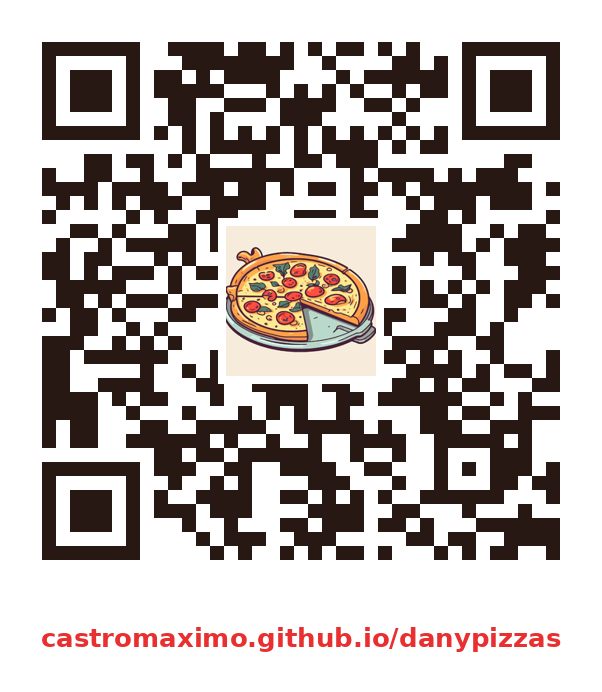
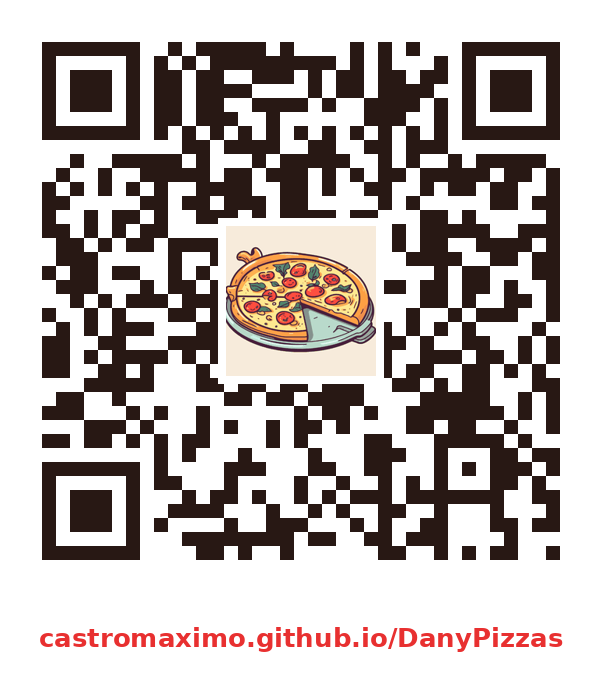
Corregir URL del sitio (DanyPizzas) y regenerar QR
Claude-Session: https://claude.ai/code/session_01DGuVkGqipoRnmsFXRqrGAM

Changed region(s): [[0.0598, 0.0607, 0.9269, 0.8194], [0.0598, 0.9104, 0.9269, 0.9408]]

diff --git a/docs/PUBLICAR.md b/docs/PUBLICAR.md
@@ -1,7 +1,7 @@
 # Publicar Dany Pizzas (paso a paso)
 
 Dirección pública del sitio (dominio gratuito de GitHub Pages):
-**https://castromaximo.github.io/danypizzas/**
+**https://castromaximo.github.io/DanyPizzas/**
 QR listo para imprimir: `docs/qr-sitio.png`
 
 Hay 3 partes. La 1 y la 2 dejan el sitio en internet (≈10 min). La 3 activa la planilla de pedidos (≈10 min, opcional pero recomendada para la exposición).
@@ -10,12 +10,12 @@ Hay 3 partes. La 1 y la 2 dejan el sitio en internet (≈10 min). La 3 activa la
 
 ## Parte 1 — Subir el código a GitHub
 
-El repositorio `CastroMaximo/danypizzas` ya existe y está vacío. El ZIP **ya trae el commit hecho**, solo falta empujarlo.
+El repositorio `CastroMaximo/DanyPizzas` ya existe y está vacío. El ZIP **ya trae el commit hecho**, solo falta empujarlo.
 
 ```bash
 cd ~/Descargas                       # o donde descargaste el ZIP
-unzip DanyPizzas_v1_2_repo.zip          # crea la carpeta danypizzas/ (con el historial de git)
-cd danypizzas
+unzip DanyPizzas_v1_2_repo.zip          # crea la carpeta DanyPizzas/ (con el historial de git)
+cd DanyPizzas
 git status                           # debe decir: "On branch main ... nothing to commit"
 git push -u origin main
 ```
@@ -30,10 +30,10 @@ Cuando pida credenciales:
 
 ## Parte 2 — Activar GitHub Pages (una sola vez)
 
-1. Entrá a https://github.com/CastroMaximo/danypizzas → **Settings** → **Pages**.
+1. Entrá a https://github.com/CastroMaximo/DanyPizzas → **Settings** → **Pages**.
 2. En *Build and deployment* → *Source*: elegí **GitHub Actions**.
 3. Pestaña **Actions** → workflow *Pruebas y publicación* → si no corrió solo, **Run workflow**.
-4. Cuando termina en verde (≈1 min), abrí https://castromaximo.github.io/danypizzas/
+4. Cuando termina en verde (≈1 min), abrí https://castromaximo.github.io/DanyPizzas/
 
 Requisito: el repositorio tiene que ser **público** (Pages gratis no publica repos privados). *Settings → General → Danger Zone → Change visibility* si hiciera falta. No hay datos sensibles en el código: el alias y el WhatsApp ya son públicos para los clientes.
 
@@ -61,7 +61,7 @@ Verificación: abrí el sitio, hacé un pedido de prueba → tiene que salir un 
 
 ## Checklist de “producto terminado”
 
-- [ ] Sitio abre en https://castromaximo.github.io/danypizzas/ desde PC y celular
+- [ ] Sitio abre en https://castromaximo.github.io/DanyPizzas/ desde PC y celular
 - [ ] Pestaña Actions en verde
 - [ ] Backend desplegado y `backendUrl` cargada
 - [ ] Pedido de prueba: ID secuencial + fila en la planilla + mensaje llega al WhatsApp 3825 62-0508

diff --git a/HANDOFF.md b/HANDOFF.md
@@ -93,7 +93,7 @@ Pruebas: `node --test` (Node 18+; no hace falta instalar paquetes). Modo demo: `
 - [x] CI/CD (`.github/workflows/deploy.yml`: pruebas + publicación en Pages) — **sin ejecutar** (requiere repo en GitHub y Settings → Pages → Source: GitHub Actions)
 - [x] Paquete entregado al usuario (zip `DanyPizzas_v1.zip`)
 - [x] v1.2 (06/10): fotos de Calabresa, De la Casa y Doble Muzza; logo nuevo "DANY PIZZAS" (`assets/img/logo.png`, ícono `icono.png`); protección contra pedidos falsos en backend + 10 pruebas nuevas (44 en total OK); probado con Playwright (móvil y PC, backend simulado). Zip `DanyPizzas_v1_2.zip`
-- [x] Repo `CastroMaximo/danypizzas` creado por el usuario (vacío). Commit inicial preparado (Claude no tiene permiso de push: falta instalar la app de GitHub de Claude en el repo). URL final: https://castromaximo.github.io/danypizzas/ · QR en `docs/qr-sitio.png` · guía `docs/PUBLICAR.md`
+- [x] Repo `CastroMaximo/DanyPizzas` creado por el usuario (vacío). Commit inicial preparado (Claude no tiene permiso de push: falta instalar la app de GitHub de Claude en el repo). URL final: https://castromaximo.github.io/DanyPizzas/ · QR en `docs/qr-sitio.png` · guía `docs/PUBLICAR.md`
 - [ ] Usuario: `git push` (o instalar la app de Claude para que lo haga), activar Pages (Source: GitHub Actions), repo público
 - [ ] Usuario: desplegar Apps Script, pegar URL en `site/js/config.js`, push, pedido real de prueba
 - [ ] **Presentación rehecha según el esquema del profesor** (ver 6)

diff --git a/README.md b/README.md
@@ -1,6 +1,6 @@
 # Dany Pizzas — pedidos por WhatsApp
 
-🌐 **Sitio publicado:** https://castromaximo.github.io/danypizzas/ · QR: [`docs/qr-sitio.png`](docs/qr-sitio.png)
+🌐 **Sitio publicado:** https://castromaximo.github.io/DanyPizzas/ · QR: [`docs/qr-sitio.png`](docs/qr-sitio.png)
 
 Sitio web para que los clientes de **Dany Pizzas** (Chilecito, La Rioja) vean las pizzas, armen su pedido y lo envíen por WhatsApp con un recibo listo. Proyecto de Ingeniería de Software.
 
@@ -27,7 +27,7 @@ Con el backend activo, los precios se cambian en la hoja `Catalogo` de Google Sh
 Guía completa paso a paso: **[`docs/PUBLICAR.md`](docs/PUBLICAR.md)**.
 1. Subir el repo a GitHub (rama `main`).
 2. En GitHub: **Settings → Pages → Build and deployment → Source: GitHub Actions**.
-3. Cada `git push` corre las pruebas y, si pasan, publica `site/`. La URL queda `https://castromaximo.github.io/danypizzas/`.
+3. Cada `git push` corre las pruebas y, si pasan, publica `site/`. La URL queda `https://castromaximo.github.io/DanyPizzas/`.
 
 ## Backend (registro mensual de pedidos)
 Ver `backend/README.md`.
